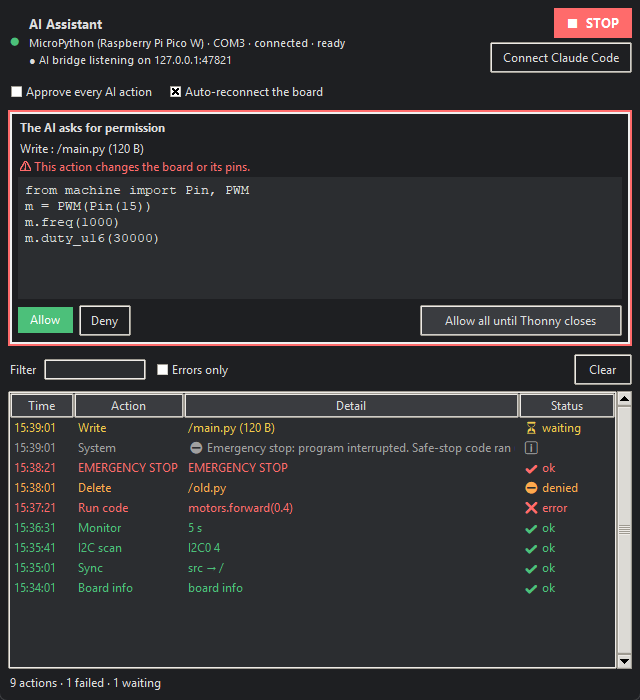
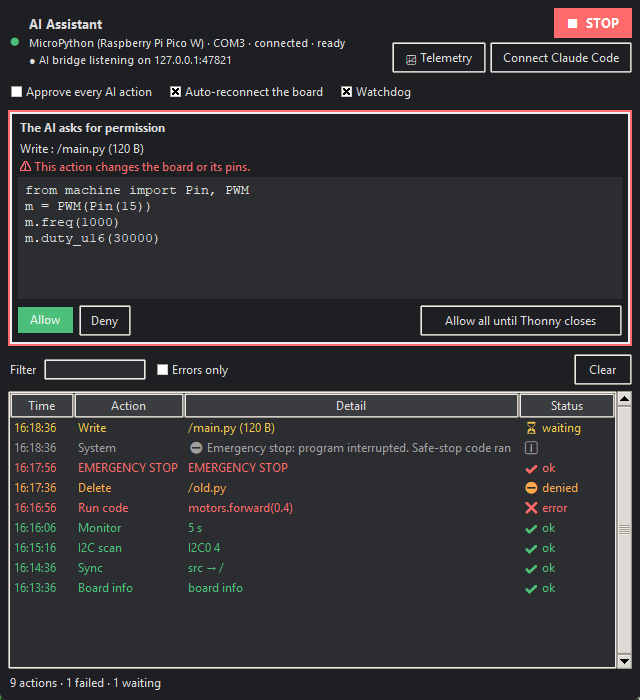
UI polish (telemetry shortcut, round axis ticks), screenshots, README/CHANGELOG/llms for watchdog, telemetry, Wi-Fi, bare metal

Changed region(s): [[0.6562, 0.42, 0.9688, 0.48], [0.0312, 0.6, 0.0938, 0.87], [0.5312, 0.06, 0.7812, 0.15]]

diff --git a/thonnycontrib/thonny_ai/telemetry_view.py b/thonnycontrib/thonny_ai/telemetry_view.py
@@ -1,6 +1,7 @@
 """Live telemetry from Thonny's program output."""
 
 import csv
+import math
 import time
 import tkinter as tk
 from tkinter import filedialog, messagebox, ttk
@@ -14,6 +15,36 @@ VIEW_ID = "TelemetryView"
 REFRESH_MS = 100
 WINDOWS = ("10 s", "30 s", "60 s")
 ACCENTS = ("approved", "ok", "warn", "failed")
+
+
+def nice_axis(minimum, maximum, target=5):
+    """Round axis bounds and ticks on a 1 / 2 / 2.5 / 5 × 10^n step, e.g. 0, 0.25, 0.5…
+    Returns (low, high, ticks, step)."""
+    if minimum == maximum:
+        pad = abs(minimum) * 0.1 or 1.0
+        minimum, maximum = minimum - pad, maximum + pad
+    raw = (maximum - minimum) / (target - 1)
+    magnitude = 10 ** math.floor(math.log10(raw))
+    step = 10 * magnitude
+    for factor in (1, 2, 2.5, 5):
+        if factor * magnitude >= raw:
+            step = factor * magnitude
+            break
+    low = math.floor(minimum / step + 1e-9) * step
+    high = math.ceil(maximum / step - 1e-9) * step
+    count = int(round((high - low) / step))
+    ticks = [low + index * step for index in range(count + 1)]
+    return low, high, ticks, step
+
+
+def format_tick(value, step):
+    """As few decimals as the step needs (0.25 → 2 decimals, 5 → none); never prints -0."""
+    if abs(value) < step * 1e-6:
+        value = 0.0
+    decimals = 0
+    while decimals < 6 and abs(round(step, decimals) - step) > step * 1e-9:
+        decimals += 1
+    return f"{value:.{decimals}f}"
 
 
 class TelemetryView(ttk.Frame):
@@ -177,28 +208,23 @@ class TelemetryView(ttk.Frame):
             return
 
         values = [value for points in visible.values() for _, value in points]
-        minimum, maximum = min(values), max(values)
-        scale = max(abs(minimum), abs(maximum)) or 1.0
-        low, high = minimum / scale, maximum / scale
+        low, high, ticks, step = nice_axis(min(values), max(values))
         left, right, top, bottom = 80, width - 20, 8, height - 24
         axis = style.lookup("TLabel", "foreground") or palette["info"]
         grid = palette["idle"]
 
         def y_coordinate(value):
-            fraction = (value / scale - low) / (high - low) if low != high else 0.5
+            fraction = (value - low) / (high - low)
             return bottom - fraction * (bottom - top)
 
         def x_coordinate(offset):
             fraction = max(0.0, min(1.0, 1 + offset / seconds))
             return left + fraction * (right - left)
 
-        ticks = (minimum,) if low == high else (
-            (low + (high - low) * index / 4) * scale for index in range(5)
-        )
         for value in ticks:
             y = y_coordinate(value)
             canvas.create_line(left, y, right, y, fill=grid, dash=(2, 4))
-            canvas.create_text(left - 6, y, anchor="e", text=format(value, ".4g"), fill=axis)
+            canvas.create_text(left - 6, y, anchor="e", text=format_tick(value, step), fill=axis)
         divisions = 2 if width < 420 else 5
         for index in range(divisions + 1):
             offset = -seconds + seconds * index / divisions

diff --git a/tests/test_telemetry.py b/tests/test_telemetry.py
@@ -283,3 +283,25 @@ class ViewTest(unittest.TestCase):
         rows = list(csv.reader(io.StringIO(output.getvalue())))
         self.assertEqual(rows, [["elapsed_seconds", "series", "value"], ["15.0", "dist", "3.0"],
                                 ["15.0", "vg", "0.42"]])
+
+
+class NiceAxisTest(unittest.TestCase):
+    def test_round_steps(self):
+        from thonnycontrib.thonny_ai.telemetry_view import format_tick, nice_axis
+
+        low, high, ticks, step = nice_axis(-0.024, 1.315)
+        self.assertEqual(step, 0.5)
+        self.assertEqual([format_tick(v, step) for v in ticks], ["-0.5", "0.0", "0.5", "1.0", "1.5"])
+        low, high, ticks, step = nice_axis(12, 87)
+        self.assertEqual((low, high, step), (0, 100, 20))
+        self.assertEqual([format_tick(v, step) for v in ticks], ["0", "20", "40", "60", "80", "100"])
+        low, high, ticks, step = nice_axis(0.61, 0.98)
+        self.assertEqual([format_tick(v, step) for v in ticks], ["0.6", "0.7", "0.8", "0.9", "1.0"])
+
+    def test_flat_series_and_negative_zero(self):
+        from thonnycontrib.thonny_ai.telemetry_view import format_tick, nice_axis
+
+        low, high, ticks, step = nice_axis(5, 5)
+        self.assertLess(low, 5)
+        self.assertGreater(high, 5)
+        self.assertEqual(format_tick(-1e-12, 0.1), "0.0")

diff --git a/thonnycontrib/thonny_ai/panel.py b/thonnycontrib/thonny_ai/panel.py
@@ -316,8 +316,10 @@ class ThonnyAIView(ttk.Frame):
         stop.configure(font=bold)
         stop.pack(side="top", anchor="e")
         Tooltip(stop, t("stop_tip"))
-        link = _button(actions, t("connect_claude"), self.connect_claude)
-        link.pack(side="top", anchor="e", pady=(4, 0))
+        links = ttk.Frame(actions)
+        links.pack(side="top", anchor="e", pady=(4, 0))
+        _button(links, "📈 " + t("telemetry_title"), self._show_telemetry).pack(side="left", padx=(0, 4))
+        _button(links, t("connect_claude"), self.connect_claude).pack(side="left")
 
     def _build_options(self):
         self._options_row = ttk.Frame(self)
@@ -553,6 +555,14 @@ class ThonnyAIView(ttk.Frame):
         if row:
             self._tree.selection_set(row)
             self._menu.tk_popup(event.x_root, event.y_root)
+
+    def _show_telemetry(self):
+        from .telemetry_view import VIEW_ID as TELEMETRY_VIEW_ID
+
+        try:
+            self._wb.show_view(TELEMETRY_VIEW_ID)
+        except Exception:
+            pass  # view not registered (tests, old Thonny): nothing to open
 
     # ------------------------------------------------------------ Claude Code setup
 

diff --git a/README.md b/README.md
@@ -101,6 +101,10 @@ On macOS / Linux use the `python3` Thonny runs with (*Tools → Open system shel
 | ⚡ **Smart sync** | `sync` uploads a project folder and only sends files whose SHA-256 changed, then restarts `main.py`. |
 | 🛑 **Robot safety** | `stop` interrupts the program **and** runs your `safe_stop` code (motors off): Ctrl-C alone leaves PWM outputs running. A timeout or `interrupt` does the same. Stop and interrupt are never blocked by the approval panel. |
 | 🖥 **Modern panel** | Live board status (port, connected, ready/running), a red **STOP** button (also in the Tools menu), colour-coded log that follows light and dark themes, filter and *errors only*, details window with Code / Result tabs and Copy, right-click copy, a warning on approval requests that change the board. |
+| 🐕 **Safety watchdog** | Watches the program's output: a `Traceback`, a `MemoryError` or a missing heartbeat triggers the emergency stop by itself. Toggle in the panel. [Details](docs/watchdog.md) |
+| 📈 **Live telemetry** | Print `dist=23.4 speed=0.5` and get live curves in Thonny (10/30/60 s, pause, CSV export), and numeric stats for the AI to tune a controller. [Details](docs/telemetry.md) |
+| 📶 **Wi-Fi mode** | `wifi_setup` once over USB, then drive the robot through WebREPL while it moves. Thonny → USB → Wi-Fi chosen automatically. [Details](docs/wifi.md) |
+| ⚙ **Bare metal C/C++** | Create, build and flash a Pico SDK program, read its console, and restore MicroPython, from the same AI tools. Pico W and Pico 2 W. [Details](docs/bare-metal.md) |
 | 🧾 **Per-project config** | `.thonny-ai.json` sets default folders, `ignore` patterns, the safe-stop code and an output cap, so one runaway `print` loop cannot flood the AI's context. |
 | 🧰 **Works without Thonny** | Thonny closed? The MCP server talks to the board over the serial port (MicroPython raw REPL), and can even listen to `main.py` without stopping it. |
 | 🪶 **Zero extra dependency** | Standard library + pyserial, which Thonny already bundles. |
@@ -134,6 +138,11 @@ warns about actions changing the board, colour-coded log with filter, details wi
 | `pull` | Download board files into a local folder (backup / recover code), never overwrites without `overwrite` |
 | `i2c_scan` | Scan an I2C bus and name the devices (IMU, OLED, distance sensor…) |
 | `gpio` | Read or drive one pin (digital in/out, pull-ups, ADC) |
+| `telemetry` | Listen to the program for N seconds and return per-series stats (last, min, max, mean, std, rate) from `name=value` or JSON lines |
+| `watchdog` | Status / on / off / configure the safety watchdog (Thonny open) |
+| `wifi_setup` | Over USB, configure the board's Wi-Fi and WebREPL so it can then be driven without a cable |
+| `bm_doctor` · `bm_new` · `bm_build` | Bare metal: check the C toolchain, create a Pico SDK project (`pico_w` / `pico2_w`), build it |
+| `bm_flash` · `bm_console` · `bm_restore_micropython` | Flash the `.uf2` (BOOTSEL handled), read the C program's USB console, go back to MicroPython |
 | `reset` | Soft reset: `boot.py` then `main.py` run again |
 | `shell` | Read Thonny's shell, i.e. what the user sees |
 | `open` | Open a local file in Thonny's editor |
@@ -276,8 +285,9 @@ points to a local `.py` file instead.
 
 ```bash
 python -m pip install -e ".[test]"
-PYTHONPATH=tests python -m unittest discover -s tests -v   # 116 tests, no board needed (panel tests need a display; skipped on headless CI)
+PYTHONPATH=tests python -m unittest discover -s tests -v   # 193 tests, no board needed (panel tests need a display; skipped on headless CI)
 python tests/e2e_thonny.py /path/to/thonny.exe             # 21 steps in a real Thonny window
+python tests/hardware_check.py                             # every tool on a real board (wheels in the air!)
 python bundle/build_portable.py thonny-X.Y.Z-windows-portable.zip
 ```
 

diff --git a/CHANGELOG.md b/CHANGELOG.md
@@ -1,6 +1,6 @@
 # Changelog
 
-## 0.2.0 — unreleased
+## 0.2.0 — 2026-11-25
 
 Robot-oriented release.
 
@@ -30,7 +30,21 @@ Robot-oriented release.
   board; colour-coded log (readable on light and dark themes) with text filter, *Errors only*, *Clear*,
   and a footer with counts; details window with Code / Result tabs, monospaced, with Copy; right-click
   menu to copy code or result.
-- 116 tests (was 54).
+- **Safety watchdog** (plugin side, on by default): an error pattern in the program output
+  (`Traceback`, `MemoryError`, `OSError: [Errno`) or an expired heartbeat triggers the emergency stop
+  once per run; lost connections are logged. Configured by `watchdog` in `.thonny-ai.json`, the panel
+  checkbox or the `watchdog` MCP tool.
+- **Telemetry**: `telemetry` MCP tool (per-series stats from `name=value`, `name:value` or JSON lines,
+  through Thonny or a passive serial listen) and a live *Telemetry* view in Thonny (10/30/60 s window,
+  clickable legend, pause, clear, CSV export, round axis ticks), opened from the panel header.
+- **Wi-Fi**: WebREPL transport sharing the raw-REPL logic with USB (`RawReplBackend`); automatic
+  Thonny → USB → Wi-Fi selection, `THONNY_AI_TRANSPORT=usb|wifi|auto`; `wifi_setup` writes the Wi-Fi
+  and WebREPL settings over USB without overwriting `boot.py`; passwords only from the environment.
+- **Bare metal**: `bm_doctor`, `bm_new`, `bm_build`, `bm_flash`, `bm_console`,
+  `bm_restore_micropython` — Pico SDK projects for `pico_w` / `pico2_w` built with a portable toolchain,
+  BOOTSEL entered from MicroPython, flash approval in Thonny, REPL checked after restoring MicroPython.
+- `tests/hardware_check.py`: one-command validation of every tool on a real board.
+- 193 tests (was 54).
 
 ## 0.1.1 — 2026-09-23
 
